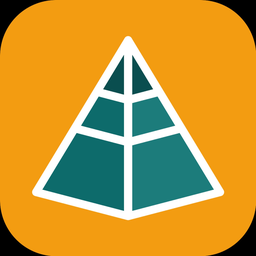
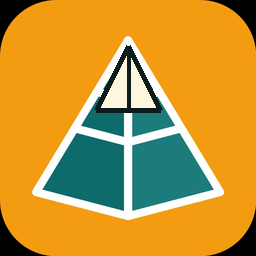
Fix mark contrast and phone/desktop chrome.
Orange tile cap was the same orange as the tile. Header mark gets a white ring so the teal tile does not vanish into the bar. Active nav is white with an orange rule (orange on teal was 2.9:1). Theme control and filter chips stay 44px.

Changed region(s): [[0.375, 0.1562, 0.6562, 0.4688]]

diff --git a/ui-fix.css b/ui-fix.css
@@ -563,3 +563,49 @@ header nav a.on,
   outline: 3px solid #f39c12;
   outline-offset: 2px;
 }
+
+/* 2026-10-03 pass: mark on its bar, active link, 44px chips. */
+header .brand-mark,
+.site-header .brand-mark,
+#desk-nav img.aia-mark {
+  width: 40px !important;
+  height: 40px !important;
+  box-shadow: 0 0 0 2px rgba(255,255,255,.9);
+  background: transparent !important;
+}
+img.aia-mark {
+  width: 40px !important;
+  height: 40px !important;
+}
+header nav a[aria-current="page"],
+header .site-nav a[aria-current="page"],
+header nav a.on,
+.desk-tabs a.on,
+#desk-nav a.on {
+  color: #fff !important;
+  box-shadow: inset 0 -3px 0 #f39c12;
+}
+.theme-btn,
+header .theme-btn,
+button.theme-btn {
+  color: #0c1116 !important;
+  background: #f39c12 !important;
+  border: 0 !important;
+  font-weight: 800 !important;
+  min-height: 44px !important;
+  min-width: 4.4em !important;
+}
+.aisle button,
+.filters button,
+.chip,
+button.chip,
+.market-filters button {
+  min-height: 44px;
+}
+@media (max-width: 859px) {
+  header .brand-mark,
+  .site-header .brand-mark {
+    width: 36px !important;
+    height: 36px !important;
+  }
+}

diff --git a/theme.js b/theme.js
@@ -18,7 +18,7 @@
     return isDark() ? "/img/aia-mark-dark.png" : "/img/aia-mark-light.png";
   }
   function markSrc() {
-    /* Header bar is always teal. White-stroke pyramid on teal. */
+    /* Header bar is teal. White-stroke pyramid, dark tile so the square does not vanish. */
     return "/img/aia-mark-teal.png";
   }
   function orangeSrc() {
